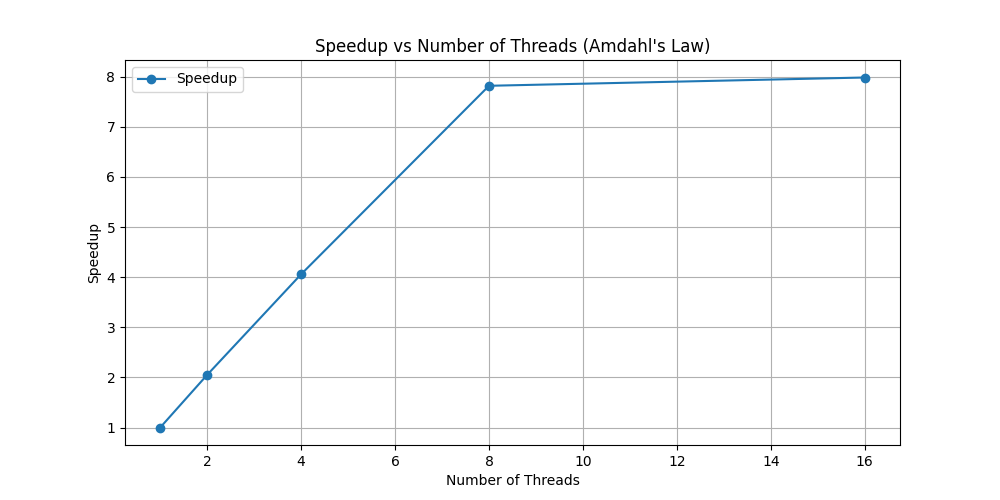
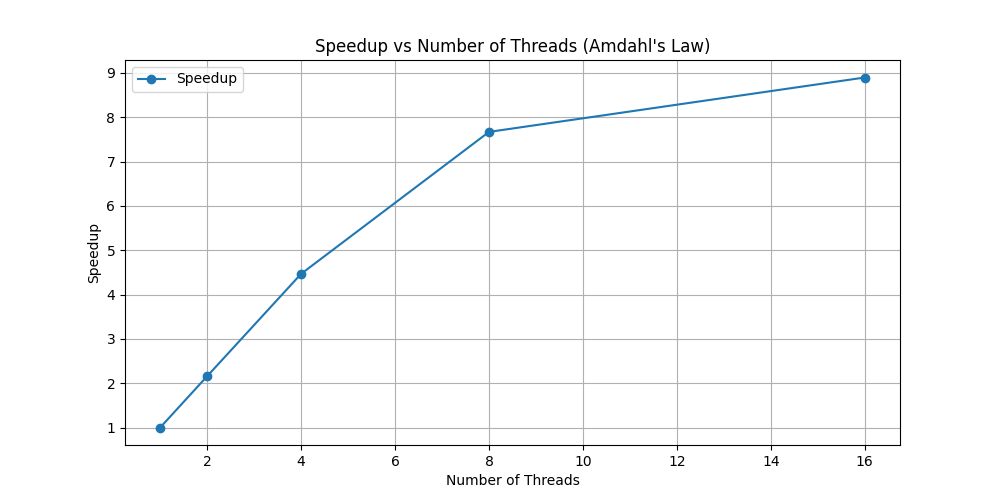
added full readme with diagrams

diff --git a/README.md b/README.md
@@ -1,18 +1,81 @@
 # Matrix Computation with OpenMP
 
-### Description
-This program computes the value of d, defined as:
-d = <B4 x, y>/<x, y> - <B3 x, y>/<x, y>
+### Student
+- Name: Bassel Alshayeb - Басель Альшаеб
+- ST: st123219
 
-Where:
-- B is a square matrix of size `1000` for extrem testing.
+### Task
+Solution for first practical task 
+d = <B4 x, y>/<x, y> - <B3 x, y>/<x, y>
+```
+Задание A-07 (Басель Альшаеб)
+Написать программу вычисления выражения:
+d = <B4 x, y>/<x, y> - <B3 x, y>/<x, y>,
+где B – квадратная плотная матрица, элементы которой имеют тип double, элементы матрицы
+задаются с помощью генератора псевдослучайных чисел, x и y – векторы (элементы задаются
+псевдослучайными числами), <,> - скалярное произведение.
+Распараллелить эту программу с помощью OpenMP (parallel, task).
+Исследовать зависимость масштабируемости параллельной версии программы от ее
+вычислительной трудоемкости (размера матриц).
+Проверить корректность параллельной версии.
+Проверка закона Амдала. Построить зависимость ускорение:число потоков для заданного
+примера.
+Срок сдачи отчета 26.11.2024.
+
+```
+
+
+For analyzing:
+- B is a square matrix.
 - X and Y are vectors.
 - <.,.> represents the scalar product
+- Matrix Size `1000` for extrem testing
 
 The program supports both sequential **Sequential** and **Parallel** execution using OpenMP.
 I added the ability to take data from a file to make a test and verify answers between the two solutins.
 
 ---
+
+### Отчет
+**1. Server speces**
+
+```
+Operating System: Ubuntu 22.04.4 LTS
+Kernel: 6.8.0-49-generic
+Processer: AMD Ryzen 7 5700G with Radeon Graphics 
+Cores: 16
+Architecture: x86_64
+Memory: 14 G
+Disk Space: 1.5 G
+```
+
+**2. Measuring result**
+
+- Size: 1000
+- Sequential Time: 36.409 Seconds
+- Paralel Time: 
+
+| Threads | Execution Time | Speedup |
+| ------- | -------------- | ------- |
+| 2 | 17.1853 | 2.157902393324527 |
+| 4 | 8.3027 | 4.466522938321269 |
+| 8 | 4.83579 | 7.668695290738432 |
+| 16 | 4.16871 | 8.895845477377895 |
+| ------- | -------------- | ------- |
+
+**3. Python Output**
+
+![python result](python_result.png)
+
+**4. Speedup Diagram As Amdahl's Law**
+
+![Amdahl's Comparison](speedup_vs_threads.png)
+
+
+**5. Execution Manager**
+
+![Execution Time VS Threads](execution_time_vs_threads.png)
+
 
 ### Features
 - Matrix and vector input can be read from files or generated randomly.
@@ -34,17 +97,17 @@ Compiling the program main.cpp with OpenMP support:
 g++ -o main -fopenmp  main.cpp
 ```
 **2. Execution** \
-For full testing I used Python with a couple of predefined threads counts
+- For full testing I used Python with a couple of predefined threads counts
 ```
 [1, 2, 4, 8, 16]
 ```
 
-You run the python to see the full diagrams and full tests written there
+- You run the python to see the full diagrams and full tests written there
 
 ```bash
 python3 analyzer.py
 ```
-Or you can run it manually and specify the number of threads you want 
+- Or you can run it manually and specify the number of threads you want 
 
 ```bash
 export OMP_NUM_THREADS=X
@@ -69,8 +132,3 @@ export OMP_NUM_THREADS=1
 - All results for each amount of threads
 - Diagram to show Speed Up X Threads relatio
 
-
----
-
-### Result after running with array size of 1000
-1. Testing environment
